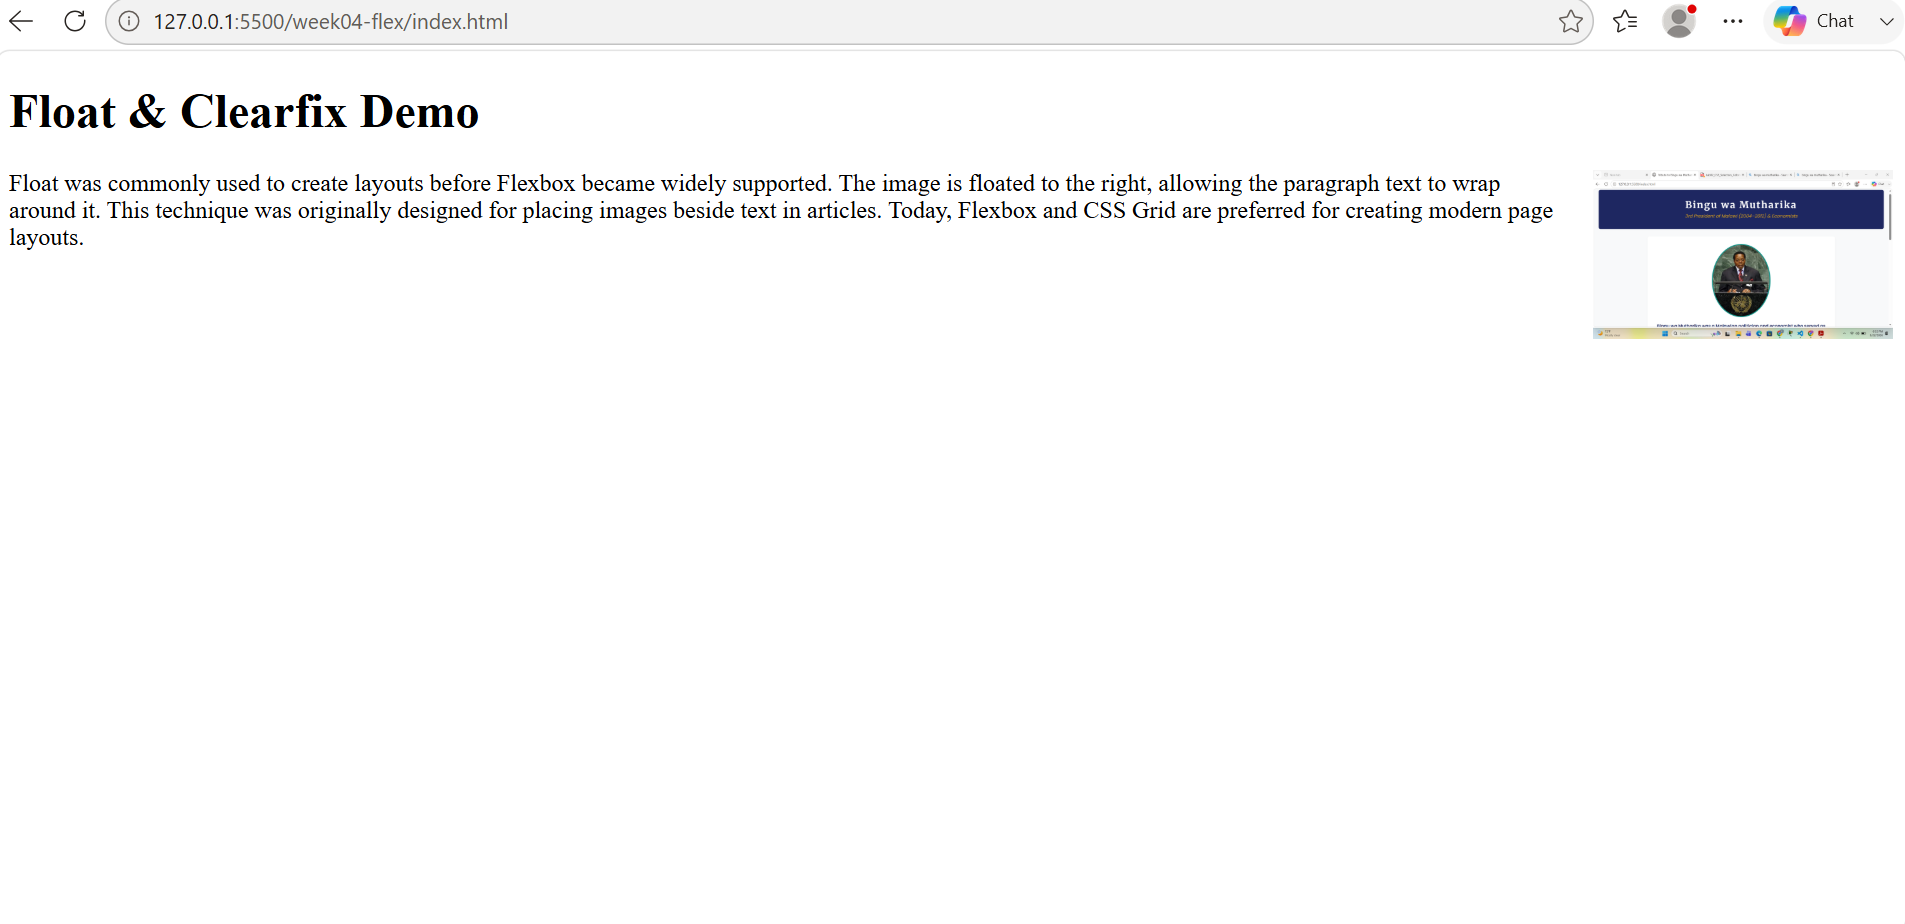
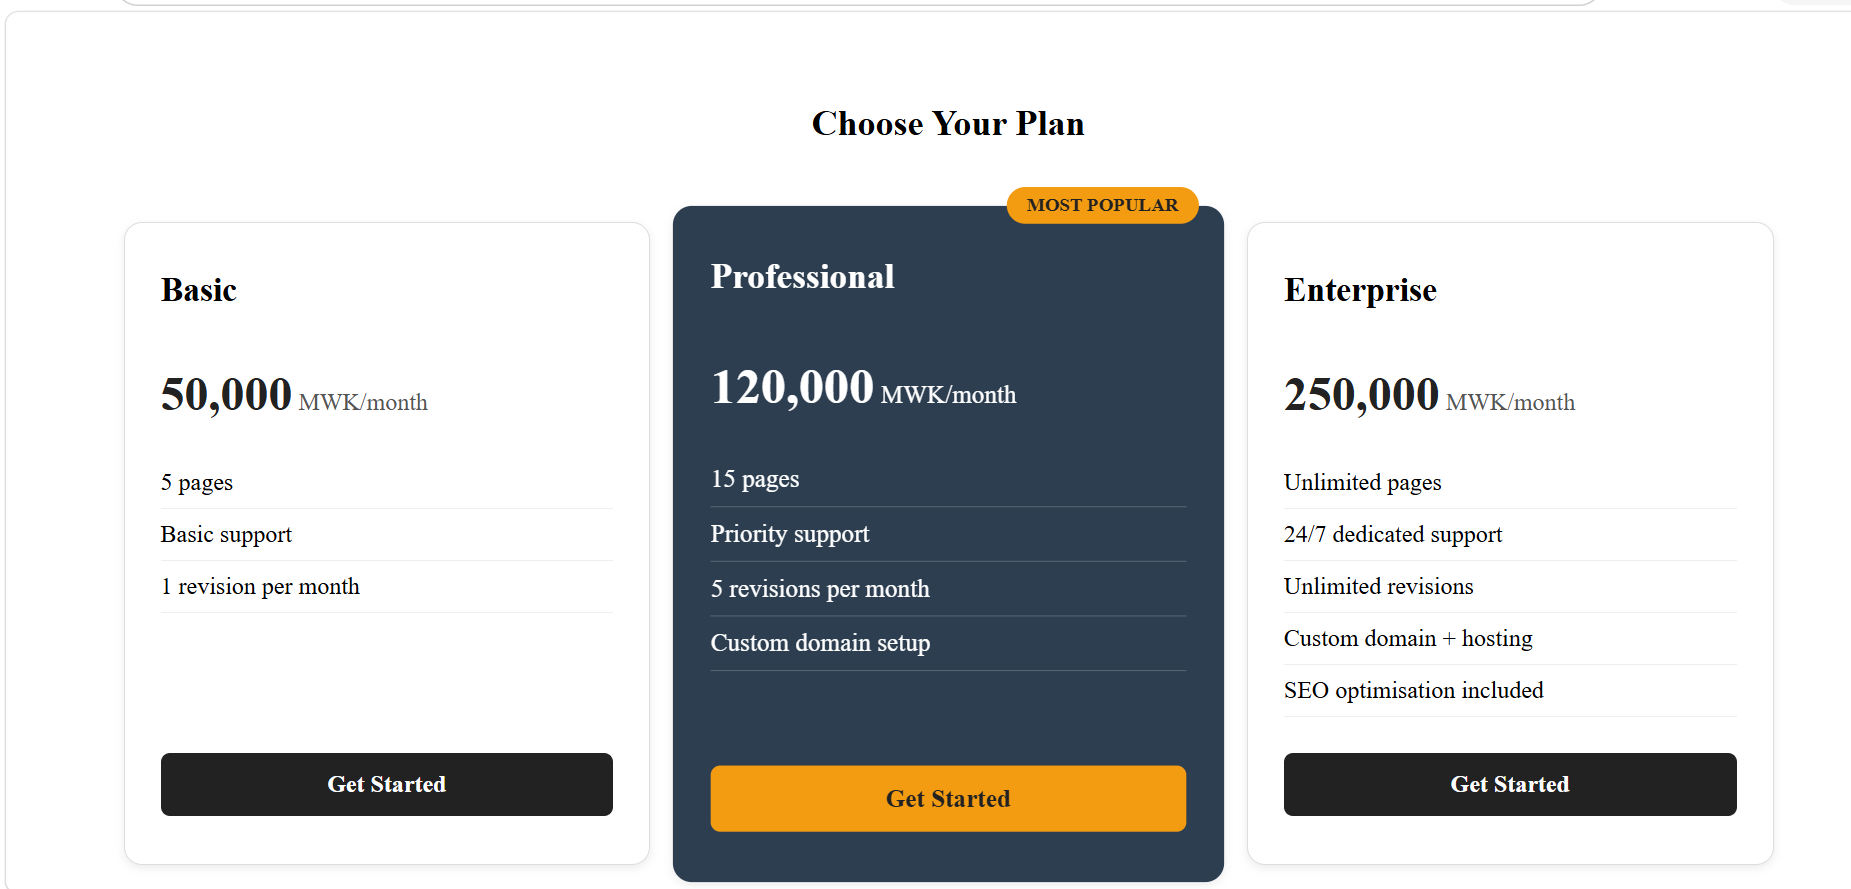
completed task 5 min -project lab 04,added all  required pictures.

diff --git a/week04-flex/style.css b/week04-flex/style.css
@@ -1,31 +1,132 @@
 
 
-.container {
-  display: flex;
-  flex-direction: row;        /* try: column, row-reverse */
-  justify-content:space-evenly; /* try: center, space-between, space-around, space-evenly */
-  align-items: flex-start;        /* try: center, flex-start, flex-end */
-  flex-wrap: wrap;           /* try: wrap */
-  gap: 1rem;
-  min-height: 200px;           /* gives align-items room to actually show an effect */
-  background: #f0f0f0;
-  padding: 1rem;
-  margin-bottom: 2rem;
-}
-
-.item {
-  flex: 1 1 200px;
-  padding: 1.5rem;
-  color: white;
-  font-size: 1.5rem;
-  font-weight: bold;
+.pricing-section {
   text-align: center;
-  border-radius: 8px;
+  padding: 2rem 1rem;
 }
 
-/* Give each box a distinct colour so movement/alignment is obvious */
-.item-1 { background: #e74c3c; }
-.item-2 { background: #3498db; }
-.item-3 { background: #2ecc71; }
-.item-4 { background: #f39c12; }
-.item-5 { background: #9b59b6; }
+/* pricing-table is the FLEX CONTAINER */
+.pricing-table {
+  display: flex;
+  gap: 1.5rem;
+  align-items: stretch; /* make all cards same height */
+  justify-content: center;
+  flex-wrap: wrap;
+  padding: 2rem;
+  max-width: 1100px;
+  margin: 0 auto;
+}
+
+/* Each .plan is a FLEX ITEM */
+.plan {
+  flex: 1 1 280px; /* grow, shrink, min 280px */
+  max-width: 340px;
+  background: white;
+  border: 1px solid #ddd;
+  border-radius: 12px;
+  padding: 2rem 1.5rem;
+  text-align: left;
+  box-shadow: 0 2px 6px rgba(0, 0, 0, 0.08);
+  display: flex; /* plans are ALSO flex containers */
+  flex-direction: column; /* stack content vertically */
+}
+
+.plan h3 {
+  margin-top: 0;
+  font-size: 1.4rem;
+}
+
+.plan .price {
+  font-size: 1rem;
+  color: #555;
+  margin-bottom: 1.5rem;
+}
+
+.plan .amount {
+  font-size: 2rem;
+  font-weight: bold;
+  color: #222;
+}
+
+.plan ul {
+  list-style: none;
+  padding: 0;
+  margin: 0 0 1.5rem 0;
+  flex-grow: 1; /* pushes button down even with short lists */
+}
+
+.plan ul li {
+  padding: 0.5rem 0;
+  border-bottom: 1px solid #eee;
+}
+
+/* Styled Sign Up / Get Started button */
+.btn {
+  display: block;
+  text-align: center;
+  background: #222;
+  color: white;
+  text-decoration: none;
+  padding: 0.75rem 1rem;
+  border-radius: 6px;
+  font-weight: bold;
+  margin-top: auto; / pushes button to the bottom of each card */
+}
+
+.btn:hover {
+  background: #444;
+}
+
+/* Highlighted middle plan */
+.plan.featured {
+  background: #2c3e50;
+  color: white;
+  border: none;
+  transform: scale(1.05);
+  position: relative;
+}
+
+.plan.featured h3,
+.plan.featured .price,
+.plan.featured .amount {
+  color: white;
+}
+
+.plan.featured ul li {
+  border-bottom: 1px solid rgba(255, 255, 255, 0.2);
+}
+
+.plan.featured .btn {
+  background: #f39c12;
+  color: #222;
+}
+
+.plan.featured .btn:hover {
+  background: #e67e22;
+}
+
+/* "Most Popular" badge — positioned top-right of the featured card */
+.badge {
+  position: absolute;
+  top: -12px;
+  right: 1rem;
+  background: #f39c12;
+  color: #222;
+  font-size: 0.75rem;
+  font-weight: bold;
+  padding: 0.3rem 0.8rem;
+  border-radius: 20px;
+  text-transform: uppercase;
+}
+
+/* RESPONSIVE — stack to single column below 700px */
+@media (max-width: 699px) {
+  .pricing-table {
+    flex-direction: column;
+    align-items: center;
+  }
+
+  .plan.featured {
+    transform: scale(1);
+  }
+}

diff --git a/week04-flex/index.html b/week04-flex/index.html
@@ -7,14 +7,49 @@
   <link rel="stylesheet" href="style.css">
 </head>
 <body>
-<!-- TASK 4: Flexbox -->
-<h2>Flexbox Playground</h2>
-<div class="container">
-  <div class="item item-1">1</div>
-  <div class="item item-2">2</div>
-  <div class="item item-3">3</div>
-  <div class="item item-4">4</div>
-  <div class="item item-5">5</div>
-</div>
+<!-- TASK 5: Pricing Table -->
+<section class="pricing-section">
+  <h2>Choose Your Plan</h2>
+  <div class="pricing-table">
+
+    <div class="plan">
+      <h3>Basic</h3>
+      <p class="price"><span class="amount">50,000</span> MWK/month</p>
+      <ul>
+        <li>5 pages</li>
+        <li>Basic support</li>
+        <li>1 revision per month</li>
+      </ul>
+      <a href="#" class="btn">Get Started</a>
+    </div>
+
+    <div class="plan featured">
+      <div class="badge">Most Popular</div>
+      <h3>Professional</h3>
+      <p class="price"><span class="amount">120,000</span> MWK/month</p>
+      <ul>
+        <li>15 pages</li>
+        <li>Priority support</li>
+        <li>5 revisions per month</li>
+        <li>Custom domain setup</li>
+      </ul>
+      <a href="#" class="btn">Get Started</a>
+    </div>
+
+    <div class="plan">
+      <h3>Enterprise</h3>
+      <p class="price"><span class="amount">250,000</span> MWK/month</p>
+      <ul>
+        <li>Unlimited pages</li>
+        <li>24/7 dedicated support</li>
+        <li>Unlimited revisions</li>
+        <li>Custom domain + hosting</li>
+        <li>SEO optimisation included</li>
+      </ul>
+      <a href="#" class="btn">Get Started</a>
+    </div>
+
+  </div>
+</section>
 </body>
 </html>

diff --git a/README.md b/README.md
@@ -1,10 +1,6 @@
 patrick boma bece/22/me/019
-task 4 flexbox
-![alt text](image-6.png)
-![alt text](image-8.png)
-![alt text](image-9.png)
-![alt text](image-10.png)
-![alt text](image-11.png)
-![alt text](image-12.png)
-![alt text](image-13.png)
-![alt text](image-14.png)
+TASK 5: Mini-Project — MUBAS Pricing Table using Flexbox
+![alt text](image.png)
+![alt text](image-1.png)
+![alt text](image-2.png)
+![alt text](image-3.png)
